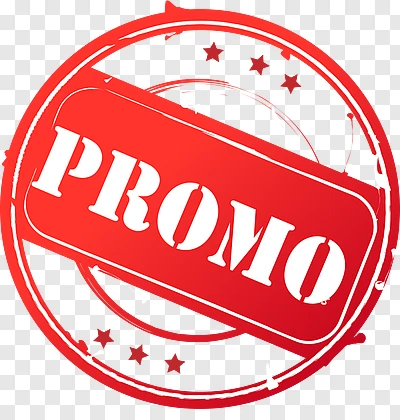
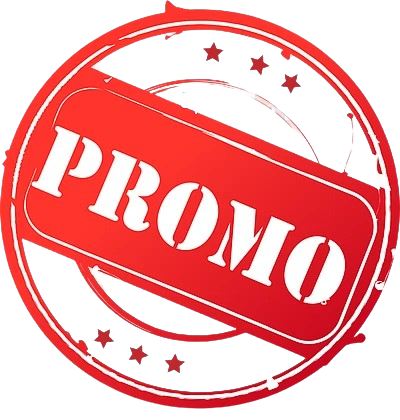
fixed issue with local asset

diff --git a/components/cards/ProductCardA.tsx b/components/cards/ProductCardA.tsx
@@ -12,7 +12,10 @@ const primaryImage = (product: Product) =>
   "https://images.unsplash.com/photo-1523275335684-37898b6baf30";
 
 export function ProductCardA({ product }: ProductCardProps) {
-  const price = product.discountPrice ?? product.productAmount;
+  const price =
+    product.discountPrice == undefined || product.discountPrice === 0
+      ? product.productAmount
+      : product.discountPrice;
 
   const currency = product.currency ?? "₦";
 
@@ -29,7 +32,7 @@ export function ProductCardA({ product }: ProductCardProps) {
         />
 
         {/* Promo Badge Top Right */}
-        {/* {product.isPromo && (
+        {product.isPromo && (
           <div className="absolute right-2 top-2">
             <Image
               src="/images/promo.png"
@@ -39,7 +42,7 @@ export function ProductCardA({ product }: ProductCardProps) {
               className="object-contain drop-shadow-md rotate-12"
             />
           </div>
-        )} */}
+        )}
       </div>
 
       {/* Content */}
@@ -67,12 +70,13 @@ export function ProductCardA({ product }: ProductCardProps) {
               {currency}
               {formatPrice(price)}
             </p>
-            {product.discountPrice && (
-              <p className="text-xs text-slate-400 line-through">
-                {currency}
-                {formatPrice(product.productAmount)}
-              </p>
-            )}
+            {product.discountPrice !== undefined &&
+              product.discountPrice > 0 && (
+                <p className="text-xs text-slate-400 line-through">
+                  {currency}
+                  {formatPrice(product.productAmount)}
+                </p>
+              )}
           </div>
 
           {/* Quantity */}

diff --git a/components/cards/ProductCardB.tsx b/components/cards/ProductCardB.tsx
@@ -14,7 +14,10 @@ const primaryImage = (product: Product) =>
   "https://images.unsplash.com/photo-1523275335684-37898b6baf30";
 
 export function ProductCardB({ product }: ProductCardProps) {
-  const price = product.discountPrice ?? product.productAmount;
+  const price =
+  product.discountPrice == undefined || product.discountPrice === 0
+    ? product.productAmount
+    : product.discountPrice;
   const currency = product.currency ?? "₦";
 
   return (
@@ -30,17 +33,17 @@ export function ProductCardB({ product }: ProductCardProps) {
             className="object-cover transition-transform duration-300 group-hover:scale-105"
           />
 
-          {/* {product.isPromo && (
+          {product.isPromo && (
             <div className="absolute left-2 top-2">
               <Image
-                src="/assets/promo.png"
+                src="/images/promo.png"
                 alt="Promo"
-                width={36}
-                height={36}
+                width={30}
+                height={30}
                 className="object-contain drop-shadow-md rotate-12"
               />
-            </div> */}
-          {/* )} */}
+            </div>
+          )}
         </div>
 
         {/* Content */}
@@ -64,7 +67,7 @@ export function ProductCardB({ product }: ProductCardProps) {
                   {formatPrice(price)}
                 </p>
 
-                {product.discountPrice && (
+                {product.discountPrice !== undefined && product.discountPrice > 0 &&(
                   <p className="text-xs text-slate-400 line-through">
                     {currency}
                     {formatPrice(product.productAmount)}

diff --git a/lib/mock-db.ts b/lib/mock-db.ts
@@ -15,7 +15,7 @@ export const tenants: Record<string, Tenant> = {
   localhost: {
     businessName: "Localhost Demo Store - First",
     variant: "A",
-    primaryColor: "#2563EB",
+    primaryColor: "#964B00",
     businessDescription:
       "A development tenant for local testing and UI exploration.",
     websiteDisplayName: "Jumia Nigeria",
@@ -34,7 +34,7 @@ export const tenants: Record<string, Tenant> = {
   "client-b.com": {
     businessName: "Client B Outfitters - Third",
     variant: "C",
-    primaryColor: "#DB2777",
+    primaryColor: "#000000",
     businessDescription: "An energetic brand presence for Client B.",
     websiteDisplayName: "Jiji Nigeria",
     logoUrl:
@@ -56,7 +56,7 @@ export const products: Product[] = [
     productName: "Classic Black Bomber Jacket",
     productCategory: "Outerwear",
     productAmount: 200,
-    discountPrice: 6000000,
+    discountPrice: 0,
     quantityAvailable: 6,
     isNegotiable: true,
     isPromo: true,
@@ -72,7 +72,7 @@ export const products: Product[] = [
     productName: "Classic Black Bomber Exclusive Jacket",
     productCategory: "Outerwear",
     productAmount: 200,
-    discountPrice: 6000000,
+    discountPrice: 220,
     quantityAvailable: 0,
     isNegotiable: true,
     isPromo: false,

diff --git a/components/cards/ProductCardC.tsx b/components/cards/ProductCardC.tsx
@@ -13,7 +13,10 @@ const primaryImage = (product: Product) =>
   "https://images.unsplash.com/photo-1523275335684-37898b6baf30";
 
 export function ProductCardC({ product }: ProductCardProps) {
-  const price = product.discountPrice ?? product.productAmount;
+  const price =
+    product.discountPrice == undefined || product.discountPrice === 0
+      ? product.productAmount
+      : product.discountPrice;
   const currency = product.currency ?? "₦";
 
   return (
@@ -76,7 +79,7 @@ export function ProductCardC({ product }: ProductCardProps) {
           {formatPrice(price)}
         </p>
 
-        {product.discountPrice && (
+        {product.discountPrice !== undefined && product.discountPrice > 0 && (
           <p className="text-[11px] text-gray-400 line-through">
             {currency}
             {formatPrice(product.productAmount)}
@@ -92,7 +95,7 @@ export function ProductCardC({ product }: ProductCardProps) {
       )}
 
       {/* Button */}
-      <button className="mt-5 w-full rounded-lg bg-black py-2 text-xs font-semibold text-white transition hover:opacity-90">
+      <button className="mt-5 w-full rounded-lg bg-primary py-2 text-xs font-semibold text-white transition hover:opacity-90">
         View Product
       </button>
     </div>

diff --git a/middleware.ts b/middleware.ts
@@ -29,6 +29,5 @@ export function middleware(request: NextRequest) {
 }
 
 export const config = {
-  matcher: ["/((?!_next/static|_next/image|favicon.ico).*)"]
+  matcher: ["/((?!_next/static|_next/image|favicon.ico|images).*)"],
 };
-
